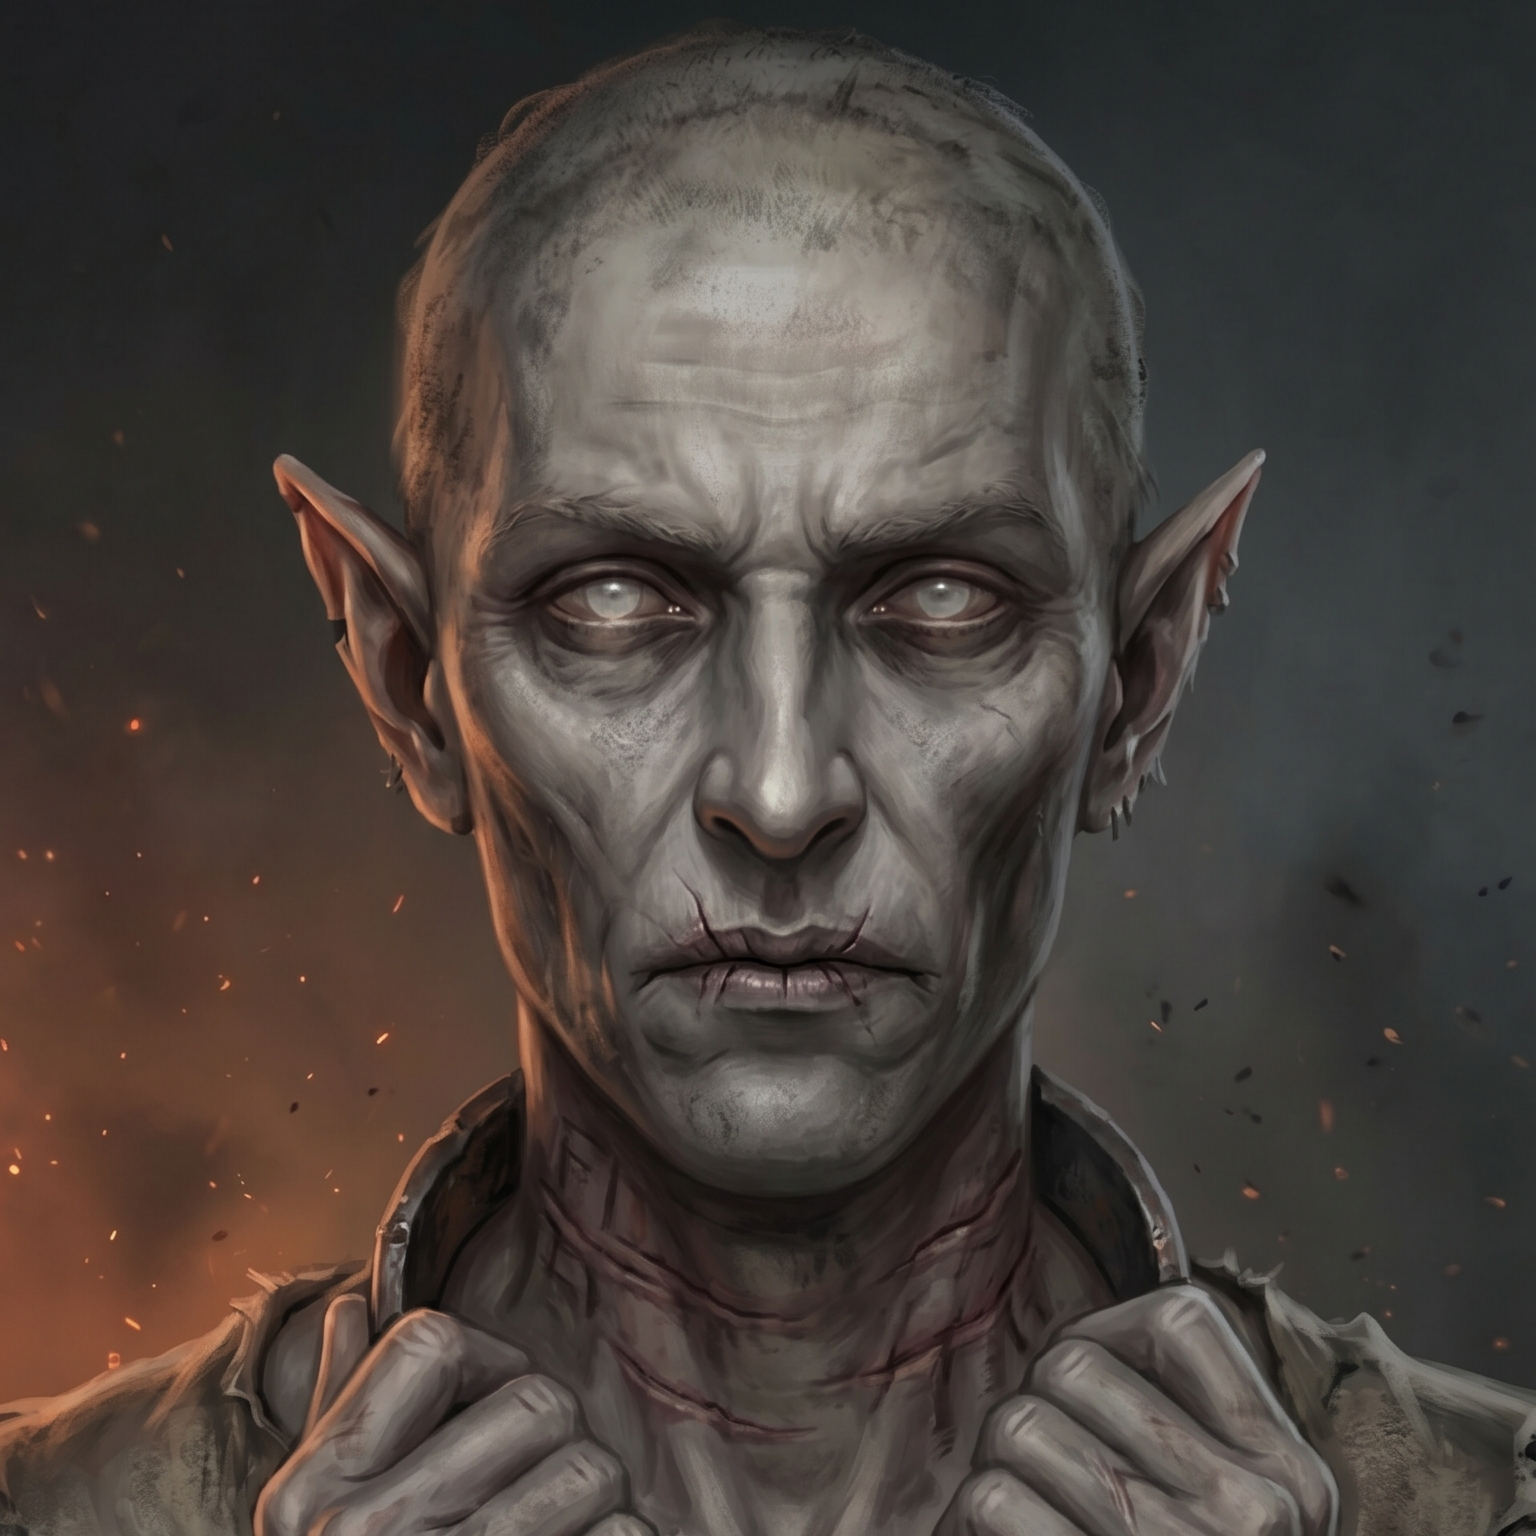
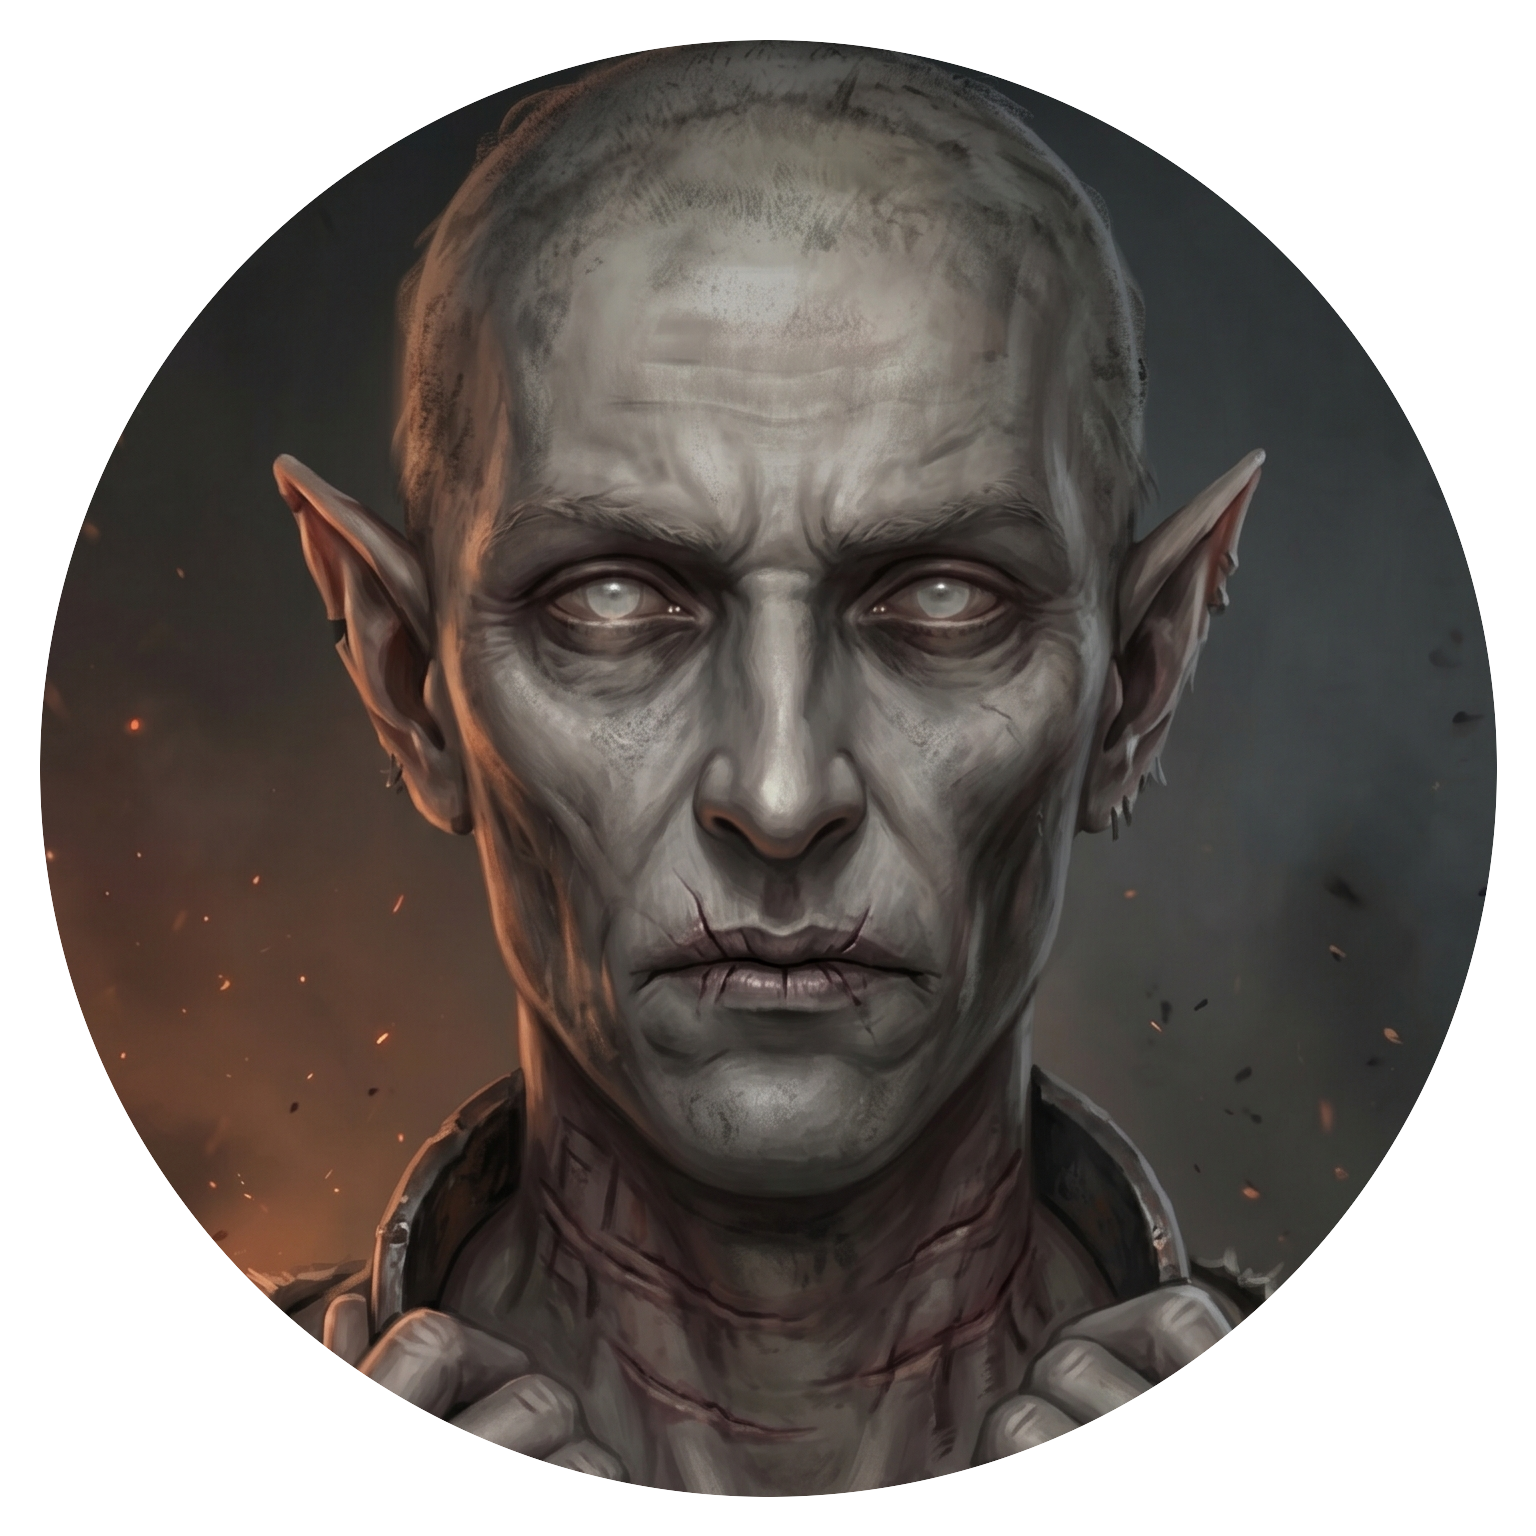
fix(forge-content): circular-mask ring tokens so the ring shows
Opaque square token art covers the Dynamic Token Ring completely —
ring data was correct but invisible (verified via control token with
dnd5e subject art, which rendered its ring fine). Tokens now get a
circle alpha mask like dnd5e subject art; thrall + stitchwretch
remasked, authoring docs/skill updated. Asset hash change makes the
next sync re-upload + re-create docs — no module update needed.

Changed region(s): [[0.0, 0.0, 1.0, 1.0]]

diff --git a/forge-content/docs/statblock-schema.md b/forge-content/docs/statblock-schema.md
@@ -41,7 +41,7 @@ consumes it unchanged — D is only a front-end onto existing actor authoring.
 | `name` | Display name from the statblock. Non-empty. |
 | `type` | Always `"npc"`. |
 | `img` | Portrait. Either a Foundry **core** icon (`icons/...`, must exist in the install) OR a committed module asset (`modules/forge-content/assets/tokens/<slug>.png`, must exist in repo). When the source image is the creature itself, save it as a module asset and use it here. |
-| `prototypeToken.texture.src` | Optional. Token art. Same path rules as `img`. MUST be a **square** image — Foundry's Dynamic Token Ring stretches a rectangular subject. Crop a square (`convert in.png -crop WxW+0+yoff +repage out-token.png`) and point here; the full portrait stays on `img`. |
+| `prototypeToken.texture.src` | Optional. Token art. Same path rules as `img`. MUST be a **square, circular-masked** image — the Dynamic Token Ring stretches a rectangular subject, and an opaque square covers the ring entirely (subject art needs transparent corners, like dnd5e's own subject tokens). Square-crop, then apply a circle alpha mask (see the skill's `convert` one-liner); the full portrait stays on `img`. |
 | `prototypeToken.ring` | Enable the Dynamic Token Ring for a creature-image token: `{ "enabled": true, "subject": { "scale": 1 } }`. Foundry uses (square) `texture.src` as the ring subject. Leave off for square core icons. |
 | `system.abilities.{str,dex,con,int,wis,cha}.value` | Integer **3–20**. Read off the statblock's ability scores (the score, NOT the modifier). |
 | `system.attributes.hp.{value,max}` | Equal integers (authored NPC = full HP). `formula: ""`. |

diff --git a/.claude/skills/forge-image-statblock/SKILL.md b/.claude/skills/forge-image-statblock/SKILL.md
@@ -43,10 +43,14 @@ exact shape you must emit.
 3. **Portrait + token = the creature.** Save the SOURCE image as a module asset:
    `cp <image> forge-content/assets/tokens/<slug>.png` → use it for the actor `img`
    (the sheet portrait can be the full rectangle).
-   **The token must be SQUARE** — a rectangular subject gets stretched inside the
-   Dynamic Token Ring. Crop a square focused on head + upper body:
-   `convert <slug>.png -crop WxW+0+<yoff> +repage <slug>-token.png` (W = the image
-   width; pick yoff to frame the head). Point `prototypeToken.texture.src` at the
+   **The token must be SQUARE and CIRCULAR-MASKED** — a rectangular subject gets
+   stretched inside the Dynamic Token Ring, and an OPAQUE square one covers the
+   ring entirely (no ring visible at all; found 2026-06-11 — subject art needs
+   transparency like dnd5e's own subject tokens). Crop a square focused on head +
+   upper body, then cut a transparent circle:
+   `convert <slug>.png -crop WxW+0+<yoff> +repage \( +clone -alpha extract -fill black -colorize 100 -fill white -draw "circle C,C C,M" \) -alpha off -compose CopyOpacity -composite <slug>-token.png`
+   (W = image width; C = W/2; M ≈ W/40 top margin; pick yoff to frame the head).
+   Point `prototypeToken.texture.src` at the
    `-token.png` and enable the ring:
    `"prototypeToken": { "texture": { "src": "modules/forge-content/assets/tokens/<slug>-token.png" }, "ring": { "enabled": true, "subject": { "scale": 1 } } }`.
    If no usable source image, fall back to a fitting core icon under
